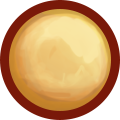
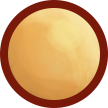
Fixed margin and font scaling, implemented new graphic

diff --git a/ts/Objects/UI/WagonIndicator.ts b/ts/Objects/UI/WagonIndicator.ts
@@ -7,7 +7,7 @@
             super(game);
             this.indicatorImage = new Phaser.Image(this.game, 0, 0, Images.WagonCounter);
             this.indicatorImage.anchor.setTo(0.5, 0.5);
-            this.indicatorText = new Phaser.Text(this.game, 0, 0, '0', { font: '62px Arial Black', fill: '#804000'} );
+            this.indicatorText = new Phaser.Text(this.game, 0, 0, '0', { font: '30pt Arial', fill: '#791909'} );
             this.indicatorText.anchor.setTo(0.5, 0.5);
             this.add(this.indicatorImage);
             this.add(this.indicatorText);
@@ -18,12 +18,13 @@
             this.indicatorText.setText(currentWagonNumber.toString());
         }
 
-        public resize(): void {
-            this.scale.setTo(this.game.width / 720);
-            this.indicatorImage.x = + this.indicatorImage.width / 2 + this.game.width * 0.025;
-            this.indicatorImage.y = + this.indicatorImage.width / 2;
+        public resize(timerX: number, timerY: number): void {
+            this.indicatorImage.scale.setTo(this.game.width / 720);
+            this.indicatorImage.x = timerX / 4.5;
+            this.indicatorImage.centerY = timerY;
             this.indicatorText.x = this.indicatorImage.x;
             this.indicatorText.y = this.indicatorImage.y;
+            this.indicatorText.fontSize = this.indicatorImage.width / 2;
         }
     }
 }

diff --git a/ts/States/GamePlay.ts b/ts/States/GamePlay.ts
@@ -109,7 +109,7 @@
             this.train.resize();
             this.cargo.resize();
             this.timeIndicator.resize();
-            this.wagonIndicator.resize();
+            this.wagonIndicator.resize(this.timeIndicator.centerX, this.timeIndicator.centerY);
         }
 
         private startRound(): void {
